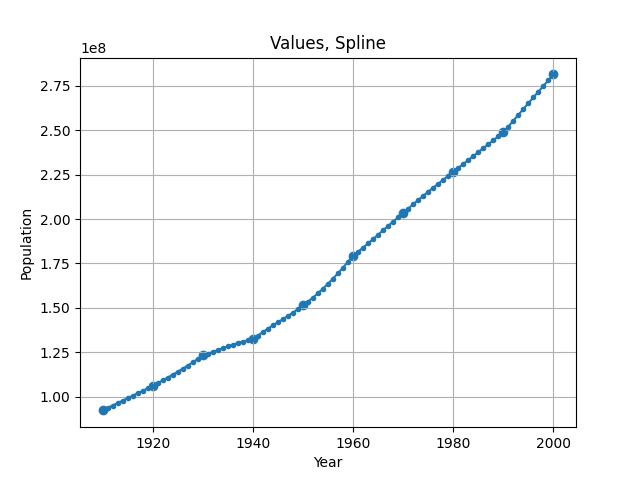
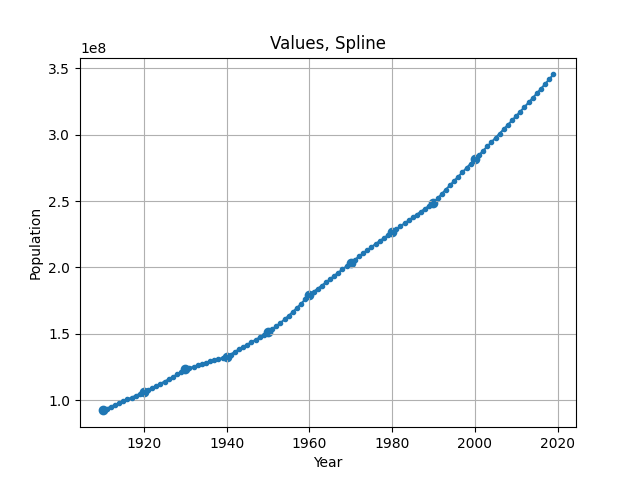
fixed spline

diff --git a/spline/squares.py b/spline/squares.py
@@ -45,15 +45,7 @@ def gauss_inverse(matrix, f):
 def GaussSolution(matrix, f):
     x = np.copy(f)
     gauss_res = gauss_direct(np.copy(matrix), x)
-
-    # print("\nAfter direct gauss:")
-    # print(gauss_res)
-    # print(x)
-
-    # print("\nAfter inverse:")
     gauss_res = gauss_inverse(gauss_res, x)
-    # print(gauss_res)
-    print("\nSolution:\n", x)
     return x
 
 def func(x, coefs):
@@ -62,13 +54,6 @@ def func(x, coefs):
     for i in range(len(coefs) - 1, -1, -1):
         ret += coefs[i] * x_n
         x_n *= x
-
-    return ret
-
-def func2(x, coefs):
-    ret = 0
-    for i in range(len(coefs) - 1, -1, -1):
-        ret += math.exp(coefs[i] * x)
 
     return ret
 

diff --git a/spline/spline.py b/spline/spline.py
@@ -73,8 +73,8 @@ def coefs(c, a, i, h, xs, ys):
     return coefs
 
 def Spline(xs, ys, x_tgt, c, h):
-    xi = 0
-    i = 0
+    i = len(ys) - 1
+    xi = xs[i]
 
     for j in range(len(xs)):
         if x_tgt <= xs[j]:
@@ -110,7 +110,7 @@ def main():
     c = np.insert(c, 0, 0)
     print(c)
 
-    x_plt = np.arange(1910, 2001, 1)
+    x_plt = np.arange(1910, 2020, 1)
     y_plt = []
     for x in x_plt:
         y_plt.append(Spline(years, population, x, c, h))
